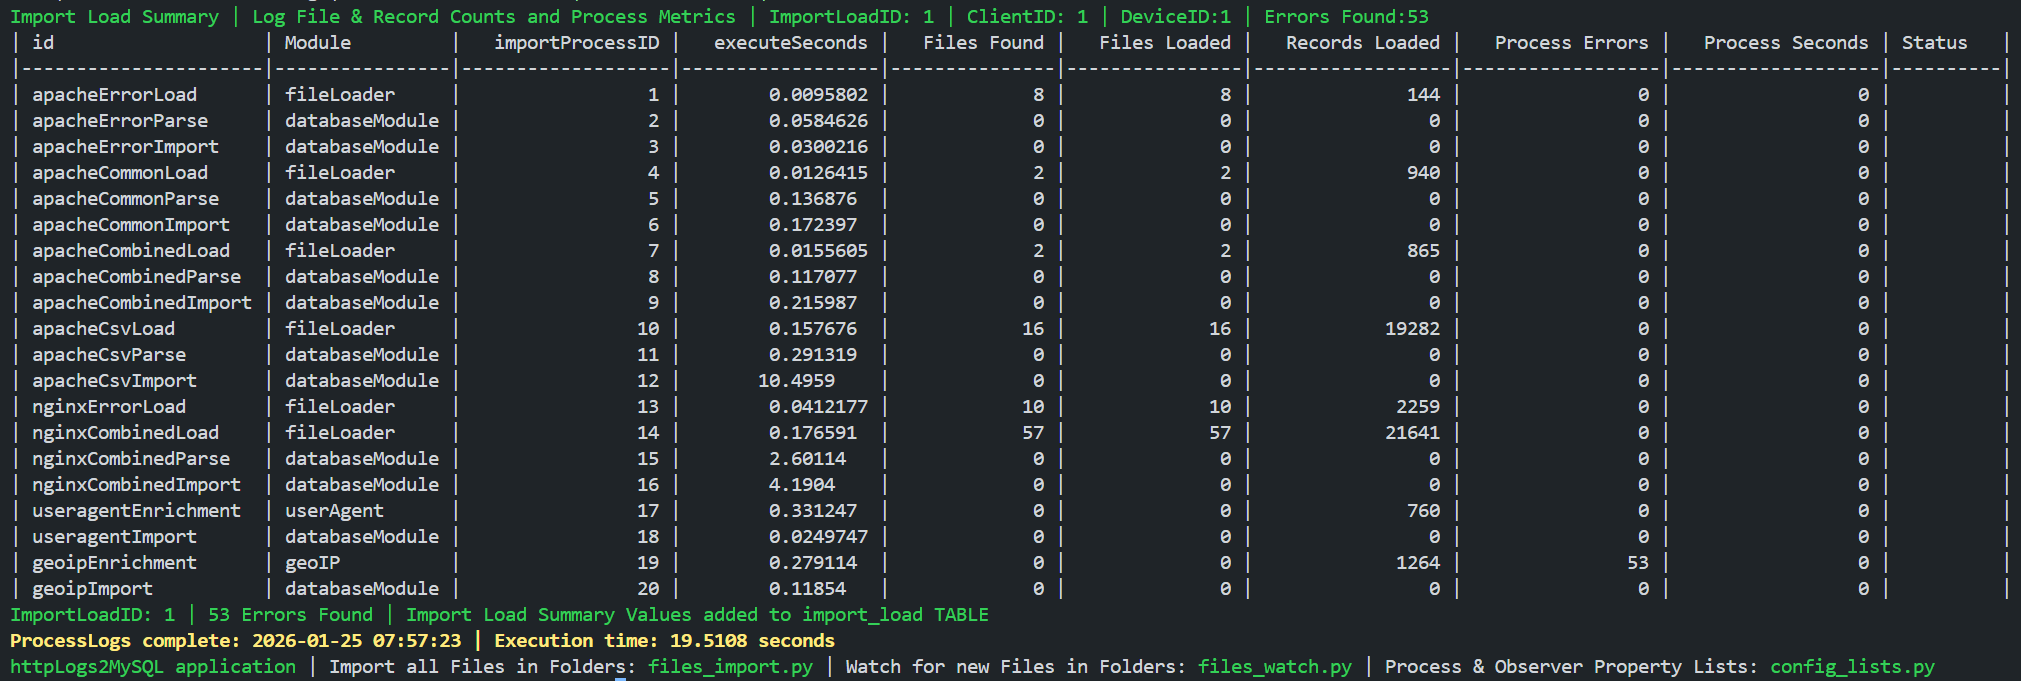
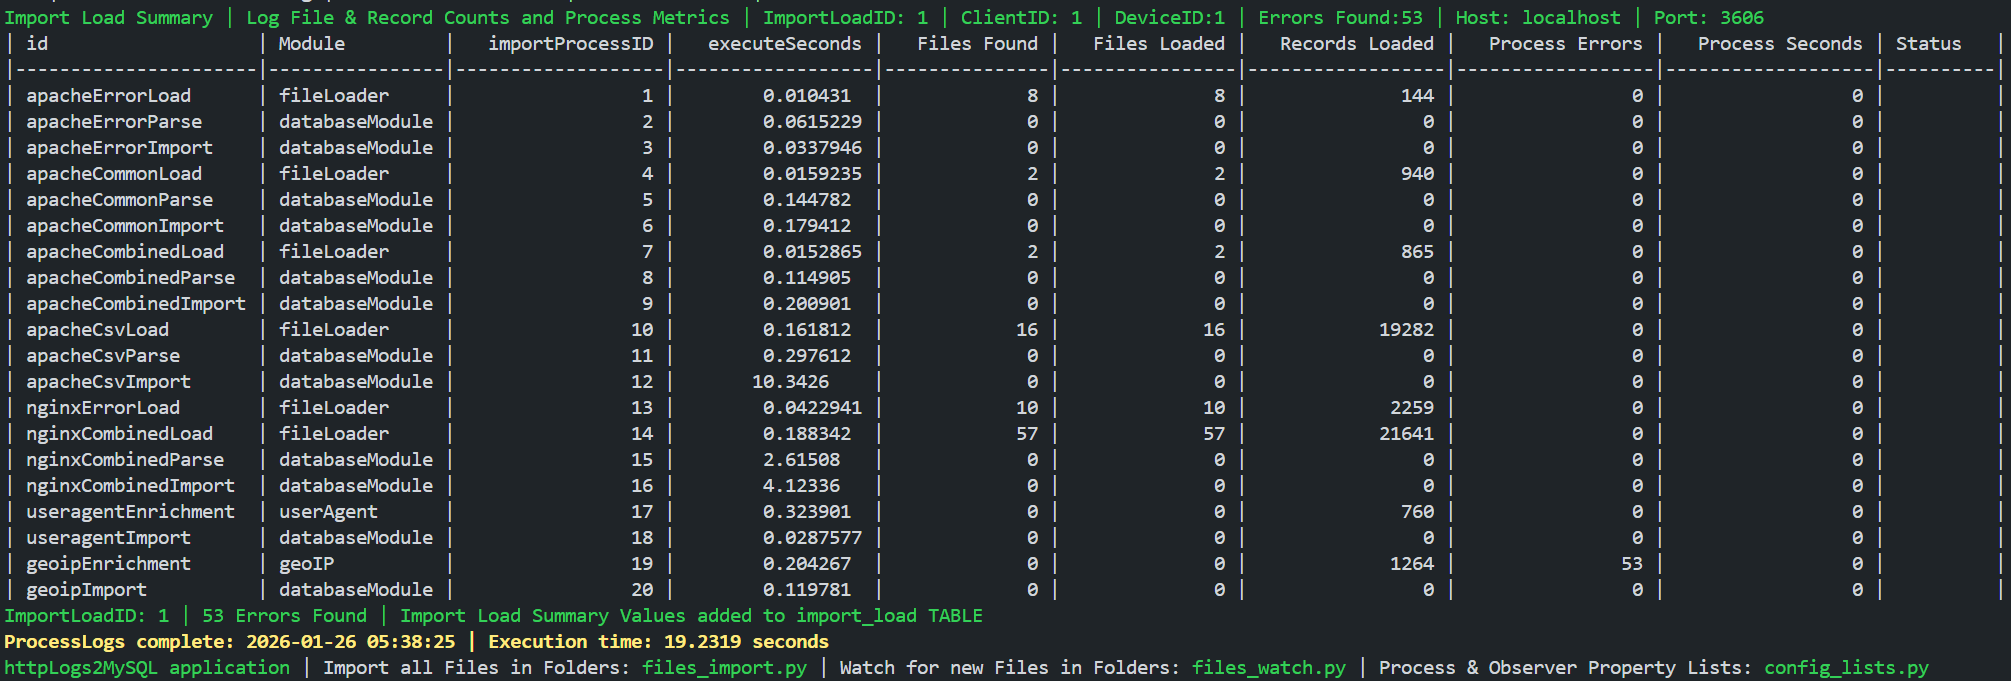
process summary of repository log files
These are the numbers everyone who runs the included sample log files should produce after executing.

diff --git a/.github/README.md b/.github/README.md
@@ -1,5 +1,7 @@
 ## Python handles File Processing & Database handles Data Processing
 ![Entity Relationship Diagram](./images/import_load_summary.png)
+the `main:process_files` "process summary" screenshot produced by processing log files included in repository.
+
 httpLogs2MySQL is a Python ***JSON data-driven*** App & MySQL schema to automate importing access & error files, normalizing log data into database and generating a well-documented data lineage audit trail 24/7.
 
 Process properties - collection of Processes executed filtered or individually in `main:process_files`
